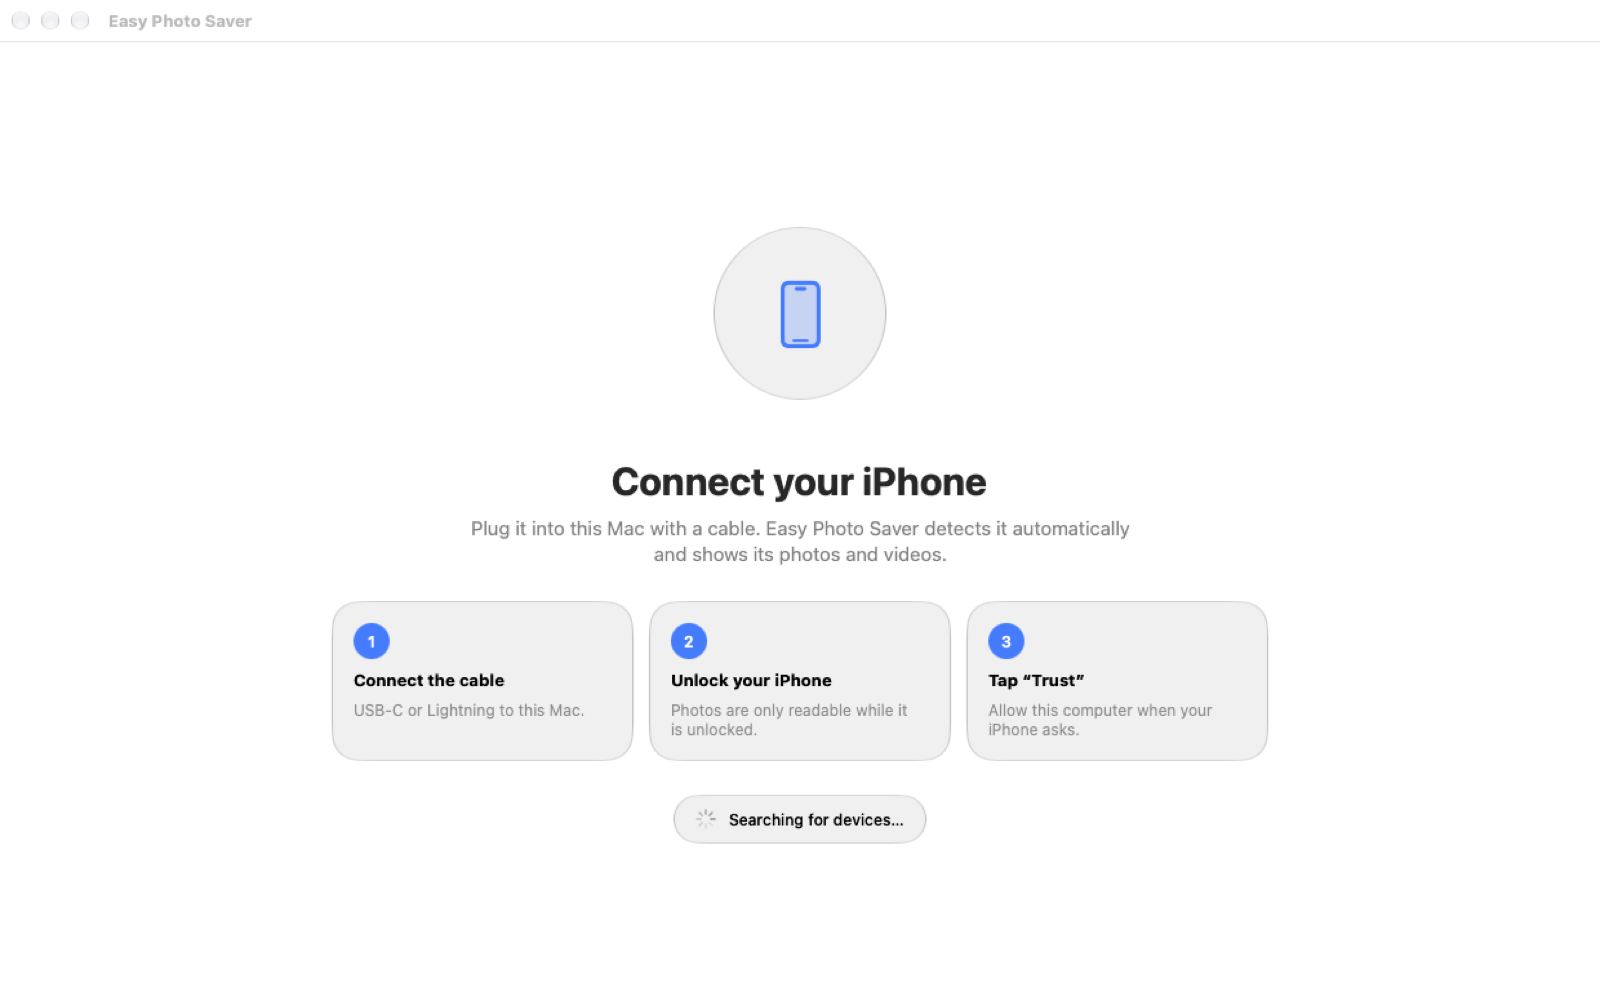
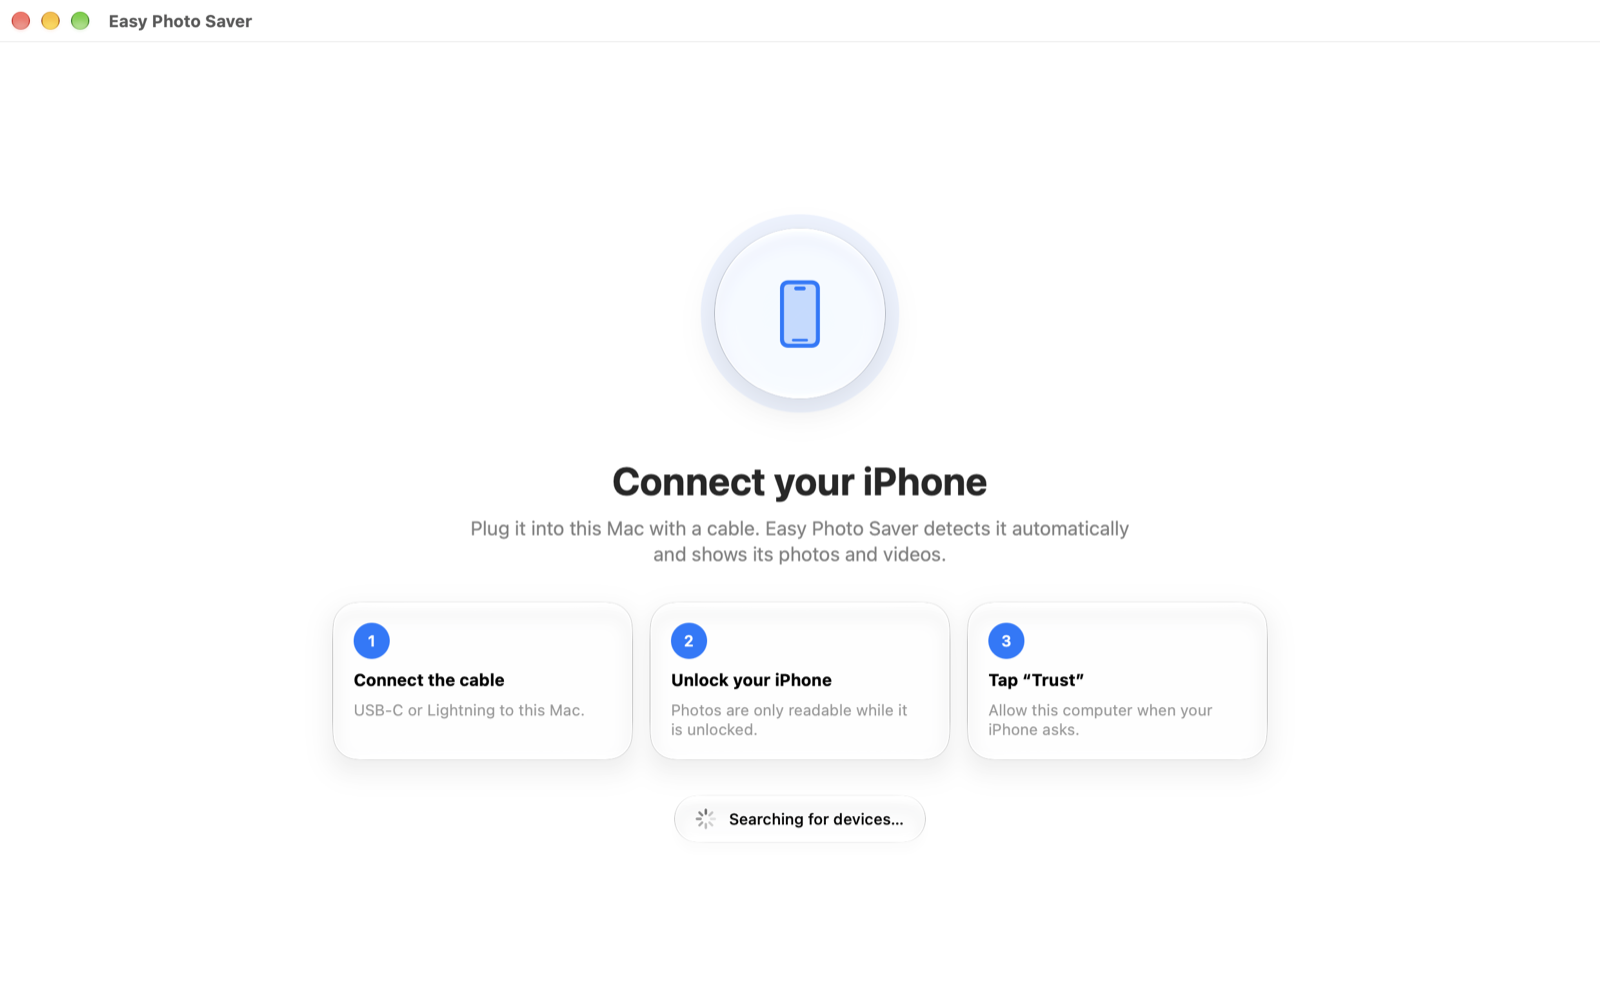
docs: App Store listing, screenshots and privacy policy

diff --git a/scripts/artwork.swift b/scripts/artwork.swift
@@ -2,6 +2,7 @@
 //
 //   swift scripts/artwork.swift icon <source.png> <out.png>   1024×1024 app icon from the artwork
 //   swift scripts/artwork.swift dmg-background <out.png> <scale>   660×400 pt installer window
+//   swift scripts/artwork.swift store-shot <window.png> <out.png> <title> <subtitle>   2880×1800 App Store screenshot
 //
 // Used by scripts/make-icon.sh and scripts/build-dmg.sh.
 import AppKit
@@ -102,6 +103,42 @@ func drawDMGBackground(_ context: CGContext) {
     subtitle.draw(at: CGPoint(x: (width - subtitle.size().width) / 2, y: 50))
 }
 
+// MARK: App Store screenshot
+
+/// 2880×1800 (a Mac App Store size): a caption over a soft background in the icon's colors,
+/// and the captured app window below it.
+func drawStoreShot(window path: String, title: String, subtitle: String) -> (CGContext) -> Void {
+    let source = NSImage(contentsOfFile: path)!.cgImage(forProposedRect: nil, context: nil, hints: nil)!
+    return { context in
+        let width: CGFloat = 2880, height: CGFloat = 1800
+        linear(context, [color(0xFFF1F3), color(0xFFF6EA), color(0xE8F8FC)], from: CGPoint(x: 0, y: height), to: CGPoint(x: width, y: 0))
+
+        let titleText = NSAttributedString(string: title, attributes: [
+            .font: NSFont.systemFont(ofSize: 92, weight: .bold),
+            .foregroundColor: NSColor(srgbRed: 0.11, green: 0.12, blue: 0.18, alpha: 1),
+        ])
+        let subtitleText = NSAttributedString(string: subtitle, attributes: [
+            .font: NSFont.systemFont(ofSize: 44, weight: .regular),
+            .foregroundColor: NSColor(srgbRed: 0.36, green: 0.38, blue: 0.46, alpha: 1),
+        ])
+        titleText.draw(at: CGPoint(x: (width - titleText.size().width) / 2, y: height - 120 - titleText.size().height))
+        subtitleText.draw(at: CGPoint(x: (width - subtitleText.size().width) / 2, y: height - 250 - subtitleText.size().height))
+
+        // Window: as large as fits under the caption, keeping its aspect ratio.
+        let maxWidth: CGFloat = 2240, maxHeight: CGFloat = 1360
+        let aspect = CGFloat(source.width) / CGFloat(source.height)
+        let size = aspect > maxWidth / maxHeight
+            ? CGSize(width: maxWidth, height: maxWidth / aspect)
+            : CGSize(width: maxHeight * aspect, height: maxHeight)
+        let frame = CGRect(x: (width - size.width) / 2, y: 70, width: size.width, height: size.height)
+        context.saveGState()
+        context.setShadow(offset: CGSize(width: 0, height: -24), blur: 70, color: color(0x1B2340, 0.28))
+        context.interpolationQuality = .high
+        context.draw(source, in: frame)
+        context.restoreGState()
+    }
+}
+
 // MARK: Main
 
 let arguments = CommandLine.arguments
@@ -112,6 +149,8 @@ guard arguments.count >= 3 else {
 switch arguments[1] {
 case "icon" where arguments.count >= 4:
     render(width: 1024, height: 1024, to: arguments[3], draw: drawIcon(from: arguments[2]))
+case "store-shot" where arguments.count >= 6:
+    render(width: 2880, height: 1800, to: arguments[3], draw: drawStoreShot(window: arguments[2], title: arguments[4], subtitle: arguments[5]))
 case "dmg-background":
     let scale = arguments.count > 3 ? CGFloat(Double(arguments[3]) ?? 1) : 1
     render(width: 660, height: 400, scale: scale, to: arguments[2], draw: drawDMGBackground)

diff --git a/App/Sources/PhotoManagerApp/Demo/DemoScene.swift b/App/Sources/PhotoManagerApp/Demo/DemoScene.swift
@@ -6,7 +6,7 @@ import PhotoManagerCore
 
 /// Screens the README shows. Launch with `PHOTO_MANAGER_DEMO=<scene>`; see `scripts/screenshots.sh`.
 enum DemoScene: String, CaseIterable {
-    case waiting, library, preview, confirm, progress
+    case waiting, library, preview, confirm, confirmSave, progress
 
     /// The scene requested by the environment, or nil for the normal app.
     static var current: DemoScene? {
@@ -19,8 +19,9 @@ enum DemoScene: String, CaseIterable {
     @MainActor
     func stage(_ model: AppModel) async {
         // Never write demo files into the user's Pictures folder.
+        // Same folder name as the real default, so screenshots show "iPhone Import".
         model.options.destination = FileManager.default.temporaryDirectory
-            .appending(path: "PhotoManagerDemo", directoryHint: .isDirectory)
+            .appending(path: "PhotoManagerDemo/iPhone Import", directoryHint: .isDirectory)
         try? FileManager.default.createDirectory(at: model.options.destination, withIntermediateDirectories: true)
 
         if self != .waiting {
@@ -39,6 +40,9 @@ enum DemoScene: String, CaseIterable {
         case .confirm:
             model.selection.select(Array(items.prefix(9)))
             model.request(.delete)
+        case .confirmSave:
+            model.selection.select(Array(items.prefix(14)))
+            model.request(.saveAndDelete)
         case .progress:
             model.selection.select(Array(items.prefix(14)))
             Task { await model.perform(.saveAndDelete) }
@@ -46,7 +50,13 @@ enum DemoScene: String, CaseIterable {
 
         if let window = NSApp.windows.first(where: \.isVisible) {
             window.setContentSize(NSSize(width: 1240, height: 780))
-            window.center()
+            // Prefer a Retina screen so captures are 2x (sharp enough for App Store screenshots).
+            if let retina = NSScreen.screens.first(where: { $0.backingScaleFactor > 1 }) {
+                let area = retina.visibleFrame
+                window.setFrameOrigin(NSPoint(x: area.midX - window.frame.width / 2, y: area.midY - window.frame.height / 2))
+            } else {
+                window.center()
+            }
             // Captures of an inactive window show grey controls.
             NSApp.activate(ignoringOtherApps: true)
             window.makeKeyAndOrderFront(nil)
@@ -54,6 +64,11 @@ enum DemoScene: String, CaseIterable {
         // Let thumbnails load and animations settle before the capture.
         try? await Task.sleep(for: .seconds(self == .progress ? 2.6 : 2.0))
         if let window = NSApp.windows.first(where: \.isVisible) {
+            // Focus can be lost while waiting; a capture of an inactive window shows grey controls.
+            NSApp.activate(ignoringOtherApps: true)
+            window.makeKeyAndOrderFront(nil)
+            window.attachedSheet?.makeKey()
+            try? await Task.sleep(for: .milliseconds(400))
             print("PHOTO_MANAGER_WINDOW=\(window.windowNumber)")
             fflush(stdout)
         }

diff --git a/docs/app-store/metadata.md b/docs/app-store/metadata.md
@@ -1,0 +1,95 @@
+# App Store listing: Easy Photo Saver
+
+Copy each field into App Store Connect. Limits are in brackets.
+
+## App Information
+
+**Name** [30]: `Easy Photo Saver`
+
+**Subtitle** [30]: `Free up iPhone storage safely`
+
+**Category**: Primary `Photography`, secondary `Utilities`
+
+**Privacy Policy URL**: `https://github.com/Juan-Motta/iphoto-manager/blob/main/docs/privacy-policy.md`
+
+## Version 1.0
+
+**Promotional Text** [170]:
+
+```
+Free up space on your iPhone in minutes. Save photos and videos to your Mac, check every copy, then remove them from the phone. All in one simple window.
+```
+
+**Description** [4000]:
+
+```
+Your iPhone is full, and you don't want to lose a single photo. Easy Photo Saver moves your photos and videos to your Mac and frees up the space on your iPhone, safely.
+
+Plug in your iPhone, pick what you want, and choose what happens:
+
+• Save: copy photos and videos to your Mac. Your iPhone stays as it is.
+• Save & Delete: copy them to your Mac, check every copy, then remove them from your iPhone. The fastest way to free up space.
+• Delete: remove items from your iPhone without keeping a copy.
+
+SAFE BY DESIGN
+• Nothing is removed until its copy is checked. With Save & Delete, each item leaves your iPhone only after its copy on your Mac is complete. If a copy fails, the item stays on your iPhone.
+• No guessing about duplicates. If a file with the same name is already on your Mac, the two are compared byte by byte before deciding it's the same photo.
+• You always confirm first. Before anything is deleted, you see exactly what will go and how much space you'll get back.
+
+SIMPLE TO USE
+• Detects your iPhone as soon as you plug it in, and guides you through unlocking it and tapping Trust.
+• Browse your library by day, with filters for Photos, Videos and Screenshots.
+• Select single items, whole days or everything at once. The bar at the bottom always shows how much space you picked.
+• Open any photo or video full size before you decide, and move through your library with the arrow keys.
+• Choose Default or Large thumbnails.
+• Save into one folder per day, or into any folder you choose.
+
+PRIVATE
+Everything happens between your iPhone and your Mac over the cable. No account, no cloud, no tracking: Easy Photo Saver collects no data.
+
+GOOD TO KNOW
+• Works with the photos, videos and screenshots on your iPhone. To free up space used by apps or messages, use Settings › General › iPhone Storage on the iPhone.
+• If iCloud Photos is on, deleting from your iPhone can also delete the photo from iCloud and your other devices. The app shows whether iCloud Photos is on.
+• Requires a USB cable.
+```
+
+**Keywords** [100]:
+
+```
+storage,free up space,transfer,import,backup,delete,cleanup,offload,camera roll,videos,pictures,usb
+```
+
+**Support URL**: `https://github.com/Juan-Motta/iphoto-manager/issues`
+
+**Marketing URL** (optional): `https://github.com/Juan-Motta/iphoto-manager`
+
+**Copyright**: `2026 Juan Andres Lopez Motta`
+
+**Screenshots** (2880×1800, in order): `docs/app-store/screenshots/1-library.png` to `5-waiting.png`.
+Regenerate them with `./scripts/store-screenshots.sh`.
+
+## App Review Information
+
+**Sign-in required**: No.
+
+**Notes**:
+
+```
+Easy Photo Saver needs an iPhone connected to the Mac with a USB cable. There is no account or sign-in.
+
+How to test:
+1. Launch the app. It shows "Connect your iPhone" with three steps.
+2. Connect an iPhone with a USB cable and unlock it. If the iPhone asks, tap "Trust" and enter its passcode. The library appears within a few seconds, grouped by day.
+3. Select a few photos by clicking them, then click "Save". The copies are saved to Pictures › iPhone Import, in one folder per day. Click "Show in Finder" in the result to see them.
+4. Select a photo and click "Save & Delete". The app copies it to the Mac, verifies the copy, and only then removes it from the iPhone. The confirmation sheet shows exactly what will be removed.
+5. Optional: hover over a photo and click the expand button (or right-click > Preview) to see it full size.
+
+Notes:
+- The app uses ImageCaptureCore to read the iPhone over USB (com.apple.security.device.usb entitlement), writes to the Pictures folder (com.apple.security.assets.pictures.read-write), and to any folder the user picks with the open panel (com.apple.security.files.user-selected.read-write).
+- Nothing is deleted without a confirmation. Items whose copy fails are never deleted.
+- The app collects no data and makes no network requests.
+```
+
+## App Privacy
+
+**Data Collection**: `No, we do not collect data from this app`.

diff --git a/README.md b/README.md
@@ -111,6 +111,7 @@ swift run --package-path App PhotoManager    # quick debug run, without the sand
 TEAM_ID=… ./scripts/archive-appstore.sh      # archive for the Mac App Store
 ./scripts/make-icon.sh                       # regenerate the app icon
 ./scripts/screenshots.sh                     # regenerate the README screenshots
+./scripts/store-screenshots.sh               # regenerate the App Store screenshots (2880×1800)
 ```
 
 ### Build the DMG
@@ -156,7 +157,7 @@ What the project already covers for review:
 | Privacy manifest | `App/Xcode/PrivacyInfo.xcprivacy`: no tracking, no data collected. |
 | No hidden features | Demo mode is compiled only in debug builds. |
 
-App Store Connect also asks for a privacy policy URL, and the reviewer needs an iPhone to test: explain that in the review notes.
+The listing texts (description, keywords, review notes) are in `docs/app-store/metadata.md`, the screenshots in `docs/app-store/screenshots/`, and the privacy policy in `docs/privacy-policy.md`.
 
 ### Icon and installer artwork
 

diff --git a/docs/privacy-policy.md b/docs/privacy-policy.md
@@ -1,0 +1,12 @@
+# Privacy Policy: Easy Photo Saver
+
+_Last updated: November 17, 2026_
+
+Easy Photo Saver does not collect, store or share any personal data.
+
+- **Your photos stay with you.** The app reads the photos and videos on an iPhone connected to your Mac with a cable, and copies them only to a folder on your Mac that you choose. Nothing is uploaded anywhere.
+- **No account, no network.** The app has no sign-in and makes no network requests.
+- **No tracking or analytics.** The app contains no advertising, analytics or tracking code.
+- **Local settings only.** The app remembers your thumbnail size on your Mac. It never leaves your Mac.
+
+If you have questions, open an issue at https://github.com/Juan-Motta/iphoto-manager/issues.
